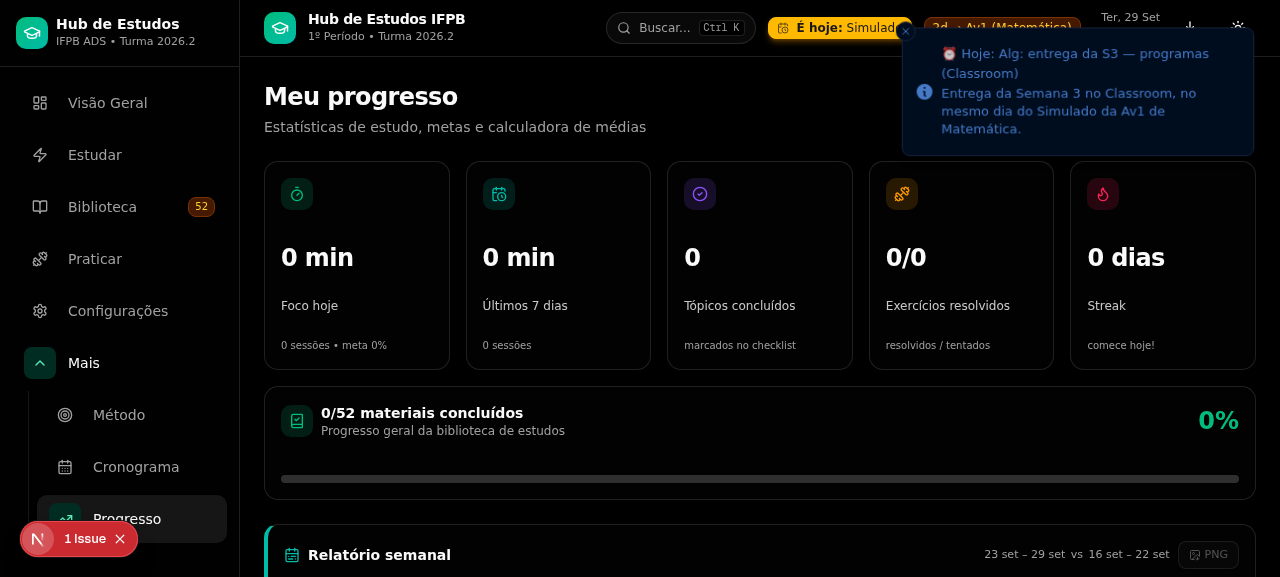
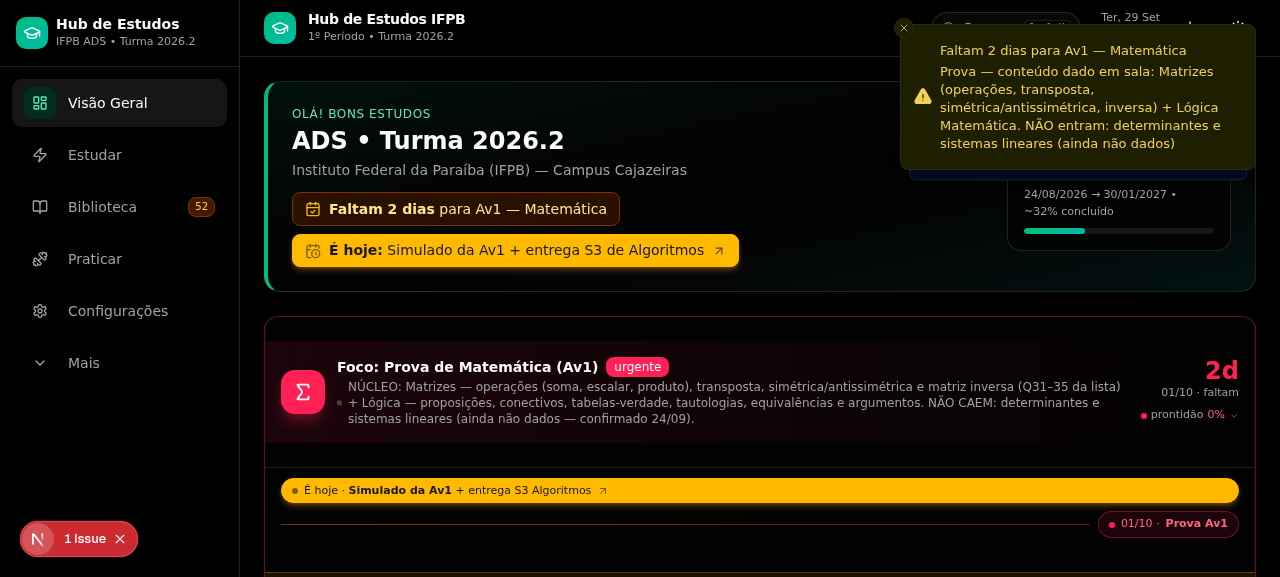
feat: A CERCA E O RECIBO — a infra que protege a semana + a voz que fica na entrega da S3 (Task 126). O P2 pendente desde a 121 virou CERCA COMMITADA (hooks/pre-commit): o sweep da 114 fez git add -A em estado sujo de terceiros, comitou lixo *-cron no main e destruiu a árvore P0 — a cerca bloqueia A

diff --git a/src/components/hub/recovery-card.tsx b/src/components/hub/recovery-card.tsx
@@ -39,7 +39,7 @@ import {
   TRACK_STATUS_LABEL,
   type TrackStatus,
 } from '@/lib/recovery-plan';
-import { MATH_EXAM, MATH_META } from '@/lib/math-exam-prep';
+import { MATH_EXAM, MATH_META, MATH_SIMULADO_DATE } from '@/lib/math-exam-prep';
 import { daysUntilDate } from '@/lib/semester';
 
 const STATUS_STYLE: Record<TrackStatus, string> = {
@@ -273,24 +273,6 @@ export function RecoveryCard() {
                             <Clock4 className="size-2.5 animate-pulse" aria-hidden /> prazo hoje
                           </Badge>
                         )}
-                        {/* O RECIBO DA ENTREGA (125) — a voz que fica quando o
-                            prazo cumpre: o chip amber CALAVA ao marcar (o aluno
-                            entregou um trabalho REAL avaliado e a fila só fazia
-                            o chip sumir — 'marquei, e agora?', a lição 123 que
-                            a casa já consagrou: registro que o aluno não vê
-                            vira dúvida). O recibo diz o que o checkbox É: o
-                            registro LOCAL da entrega — os programas seguem no
-                            Classroom para a correção. Feito é calmo: emerald
-                            sólido-contorno, sem pulso (a mesma gramática do
-                            done da casa). */}
-                        {action.prazoHoje && isDone && (
-                          <Badge
-                            title="O checkbox registra aqui no Hub que a entrega foi feita — os programas seguem no Classroom para a correção."
-                            className="gap-1 border border-emerald-500/50 bg-emerald-500/10 px-1.5 py-0 text-[9px] font-semibold text-emerald-700 dark:text-emerald-300"
-                          >
-                            <CircleCheck className="size-2.5" aria-hidden /> entrega registrada ✓
-                          </Badge>
-                        )}
                         {/* Chip do veredito do simulado — MESMA gramática do
                             badge da nota real (87): emerald sólido-contorno
                             quando ≥ meta, amber informativo quando abaixo. */}
@@ -347,6 +329,26 @@ export function RecoveryCard() {
                 );
               })}
             </ul>
+          )}
+          {/* O RECIBO DA ENTREGA (126) — a voz que fica quando o prazo cumpre.
+              A entrega da S3 é trabalho REAL avaliado e o checkbox dela tira a
+              linha da fila (o design manda: a trilha volta à primeira ação
+              pendente) — mas 'marquei, e agora?' ficou no ar (lição 123: registro
+              que o aluno não vê vira dúvida). NO DIA do prazo, com a entrega
+              marcada, a fila diz o que o registro É e para onde o programa vai:
+              emerald calmo (a cor do feito da casa), sem pulso. Fora do dia a
+              fila não fala — a trilha já segue o próprio caminho. */}
+          {done['alg-s3-entrega'] && daysUntilDate(MATH_SIMULADO_DATE) === 0 && (
+            <p
+              role="status"
+              className="mt-2 flex items-start gap-2 rounded-lg border border-emerald-500/30 bg-emerald-500/[0.06] px-3 py-2.5 text-xs font-medium text-emerald-700 dark:text-emerald-300"
+            >
+              <CircleCheck className="size-4 shrink-0" aria-hidden />
+              <span>
+                Entrega da S3 registrada — os programas seguem no Classroom para a
+                correção. A trilha de Algoritmos segue na próxima ação pendente.
+              </span>
+            </p>
           )}
         </div>
 
